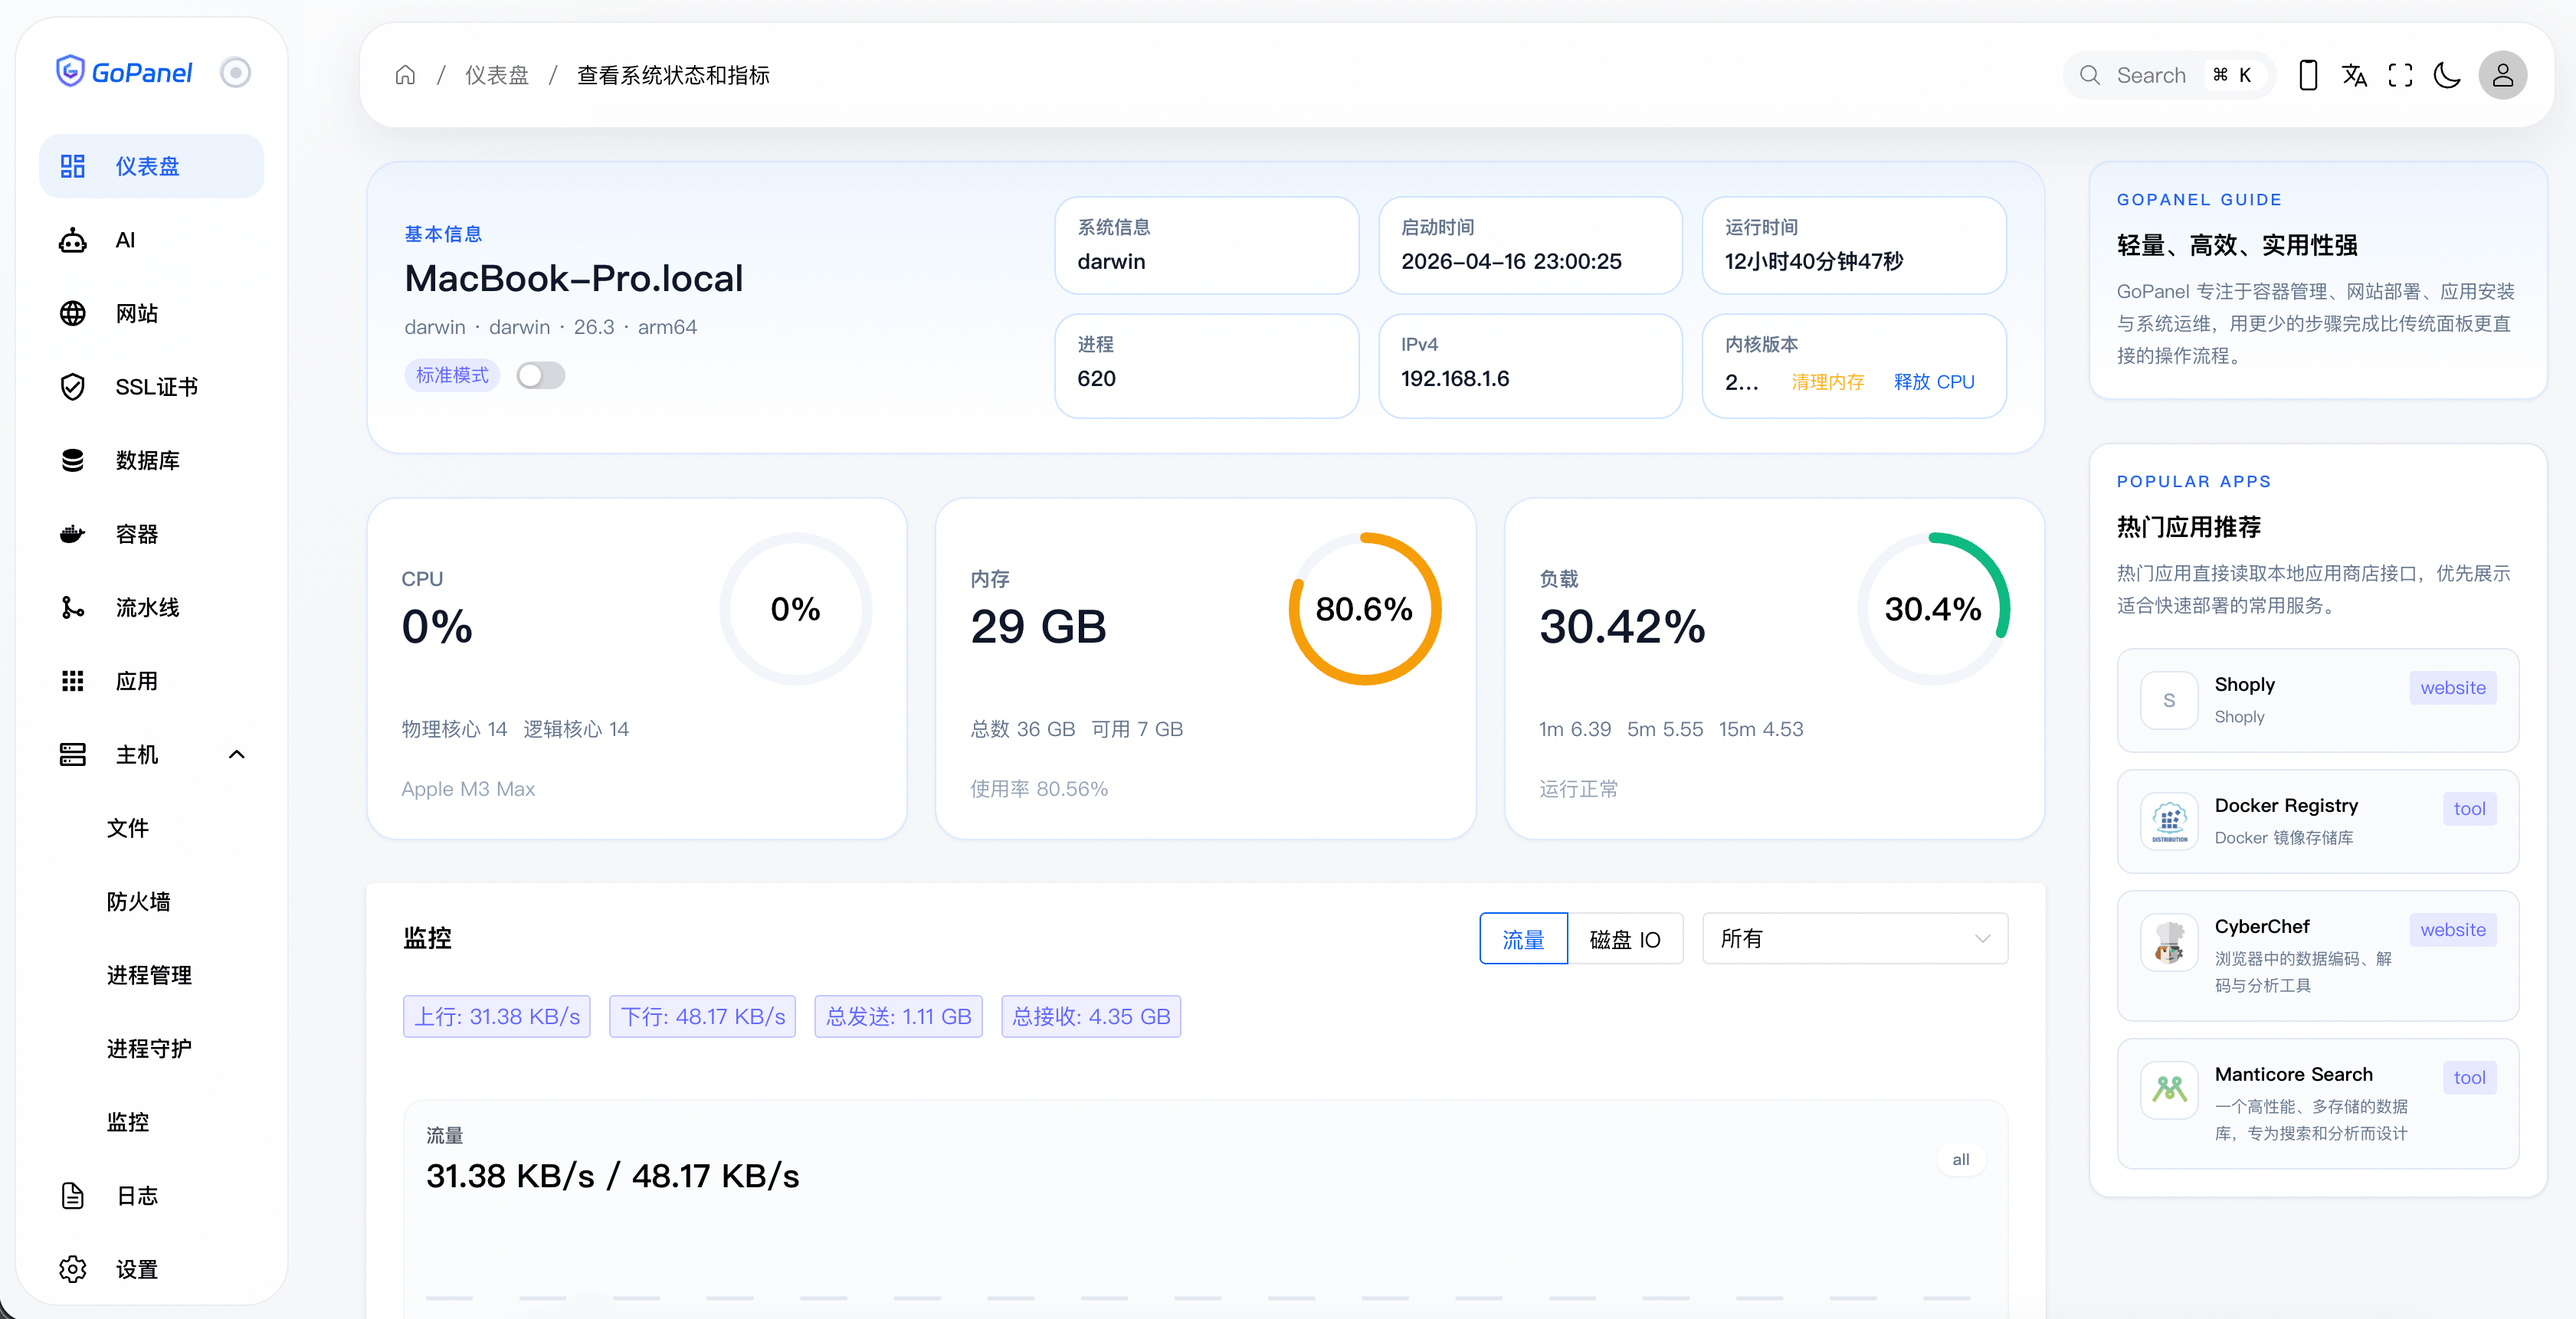
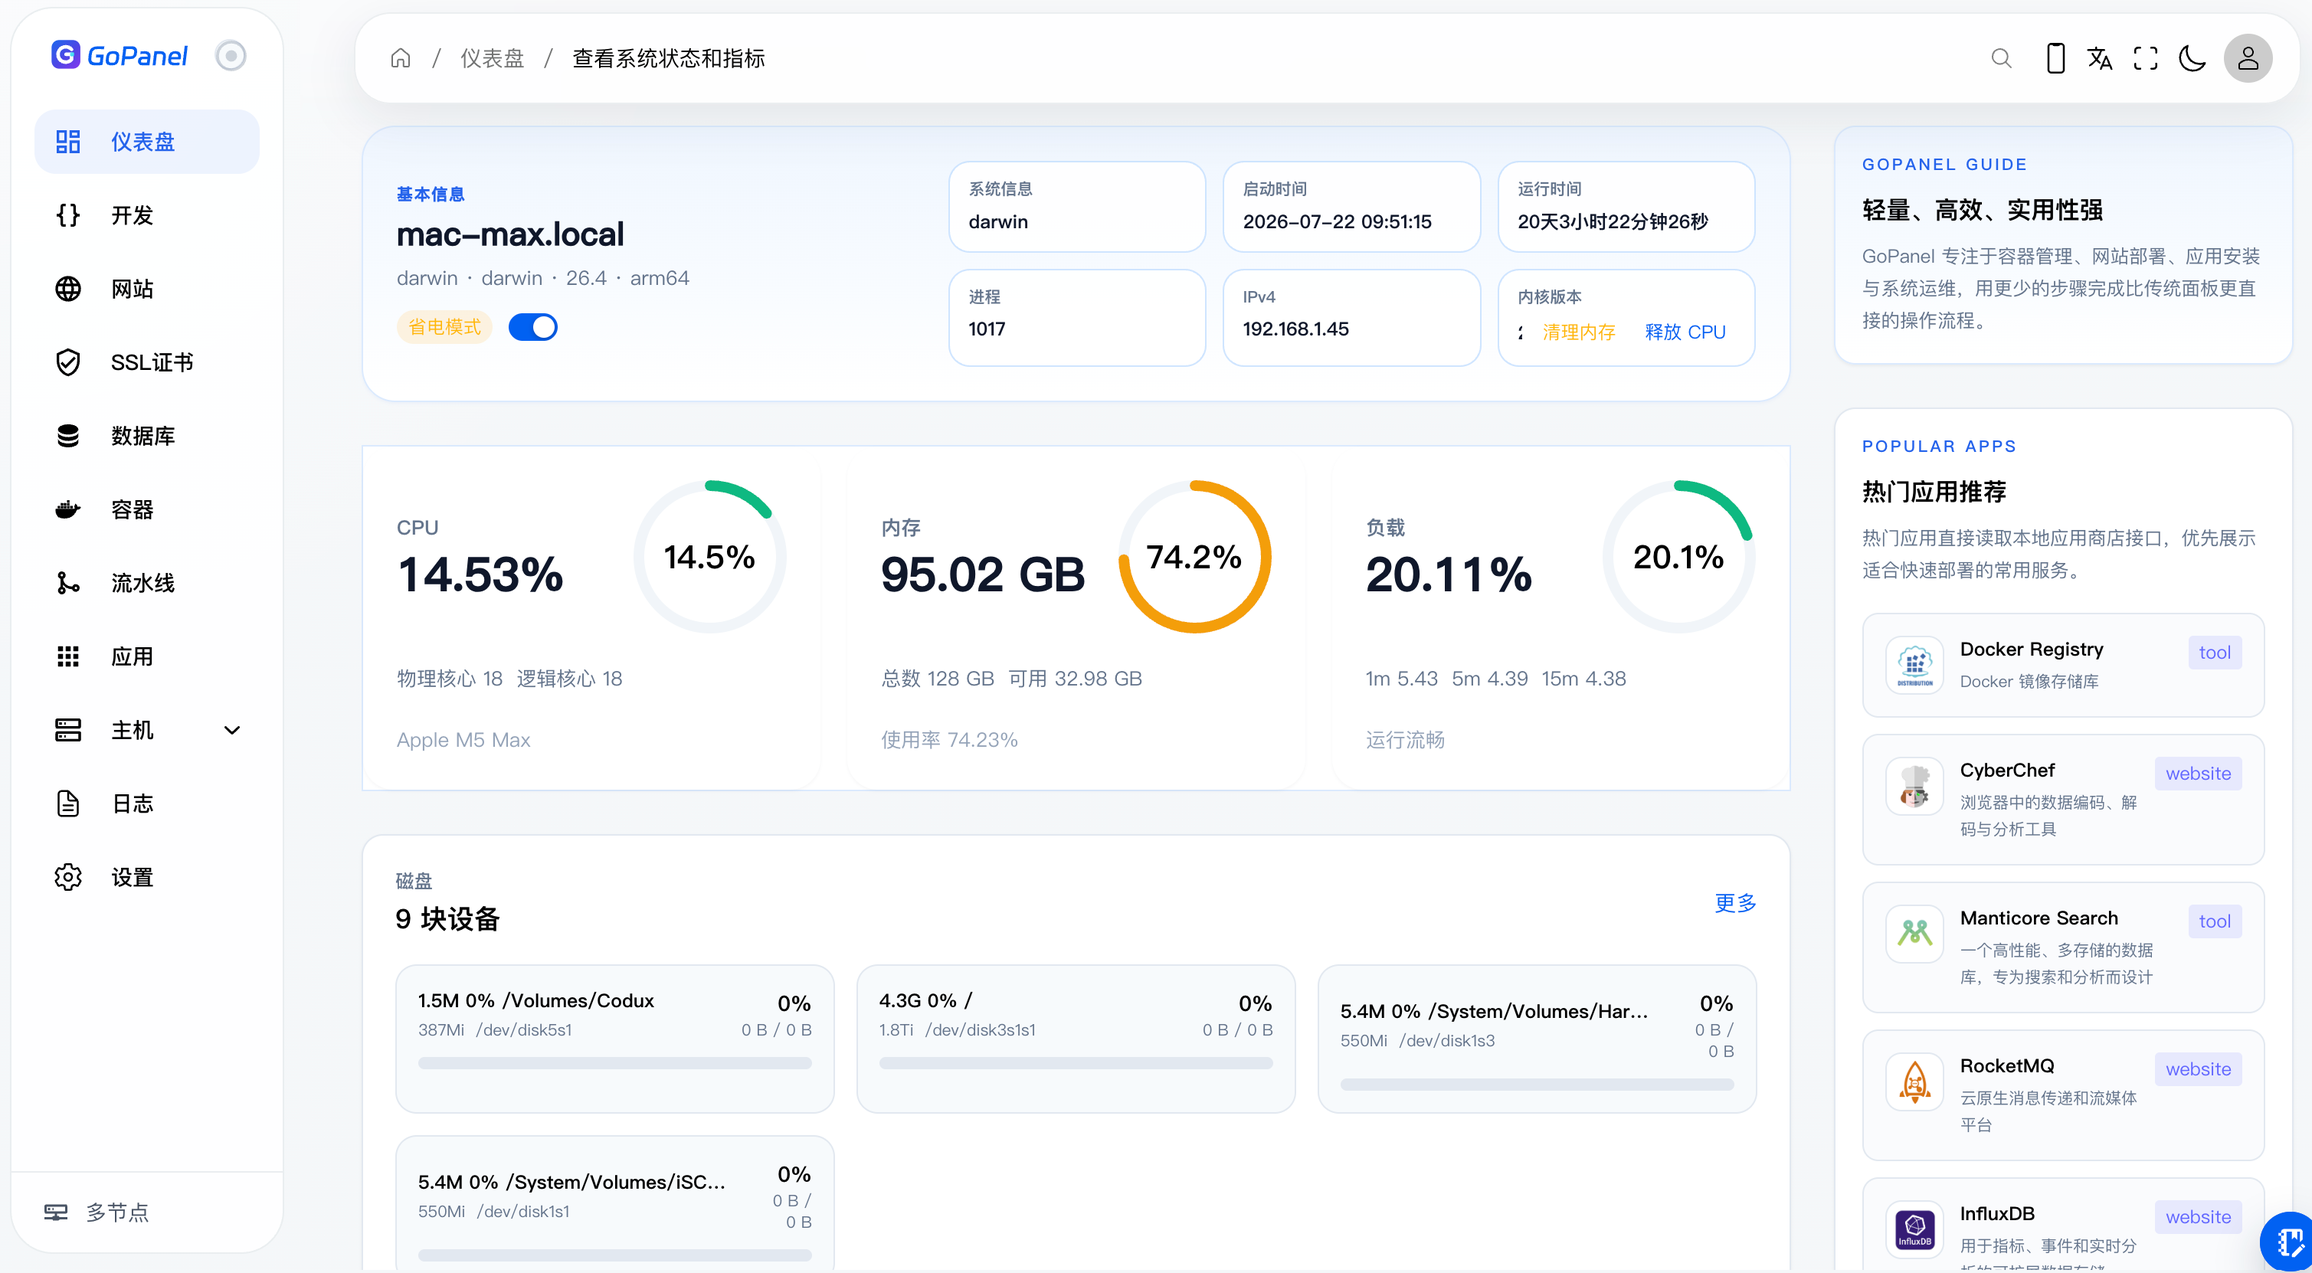
docs: 更新 README、AGENTS 描述与预览图
- 修正 AGENTS.md 项目名称为 gopanel

- README/ README_zh 徽章中文改为 URL 编码

- 补充底部 License 说明

- 更新 preview.png

diff --git a/README_zh.md b/README_zh.md
@@ -14,12 +14,12 @@
   <a href="./LICENSE"><img src="https://img.shields.io/badge/license-GPL--3.0-2563EB.svg" alt="License: GPL v3" /></a>
   <a href="https://github.com/aihop/gopanel/releases"><img src="https://img.shields.io/github/v/release/aihop/gopanel?color=4F46E5" alt="GitHub release" /></a>
   <a href="https://github.com/aihop/gopanel"><img src="https://img.shields.io/github/stars/aihop/gopanel?style=flat&color=7C3AED" alt="GitHub stars" /></a>
-  <a href="https://gopanel.cn/"><img src="https://img.shields.io/badge/官网-gopanel.cn-0891B2.svg" alt="GoPanel 官网" /></a>
+  <a href="https://gopanel.cn/"><img src="https://img.shields.io/badge/%E5%AE%98%E7%BD%91-gopanel.cn-0891B2.svg" alt="GoPanel 官网" /></a>
 </p>
 
 <p align="center">
   <a href="./README.md"><img src="https://img.shields.io/badge/English-E2E8F0.svg" alt="English" /></a>
-  <a href="./README_zh.md"><img src="https://img.shields.io/badge/简体中文-2563EB.svg" alt="简体中文" /></a>
+  <a href="./README_zh.md"><img src="https://img.shields.io/badge/%E7%AE%80%E4%BD%93%E4%B8%AD%E6%96%87-2563EB.svg" alt="简体中文" /></a>
 </p>
 
 <p align="center">
@@ -136,3 +136,7 @@ cd gopanel
 go run main.go
 
 ```
+
+## 许可证
+
+本项目采用 [GNU General Public License v3.0](./LICENSE) 许可协议。

diff --git a/README.md b/README.md
@@ -19,7 +19,7 @@
 
 <p align="center">
   <a href="./README.md"><img src="https://img.shields.io/badge/English-2563EB.svg" alt="English" /></a>
-  <a href="./README_zh.md"><img src="https://img.shields.io/badge/简体中文-E2E8F0.svg" alt="简体中文" /></a>
+  <a href="./README_zh.md"><img src="https://img.shields.io/badge/%E7%AE%80%E4%BD%93%E4%B8%AD%E6%96%87-E2E8F0.svg" alt="简体中文" /></a>
 </p>
 
 <p align="center">
@@ -136,3 +136,7 @@ cd gopanel
 
 go run main.go
 ```
+
+## License
+
+Licensed under the [GNU General Public License v3.0](./LICENSE).

diff --git a/AGENTS.md b/AGENTS.md
@@ -2,7 +2,7 @@
 
 ## 一句话定位
 
-`gopanel_v2` 是 GoPanel 的主控项目，负责 Web 管理台、AI 工作区、任务/日志、网站/容器/流水线管理，以及为手机端提供可复用的控制平面能力。
+`gopanel` 是 GoPanel 的主控项目，负责 Web 管理台、AI 工作区、任务/日志、网站/容器/流水线管理，以及为手机端提供可复用的控制平面能力。
 
 当前阶段方向：把 AI 工作区、任务链路、网站/预览能力和实时通道收口为"手机开发指挥台"的控制平面。
 
